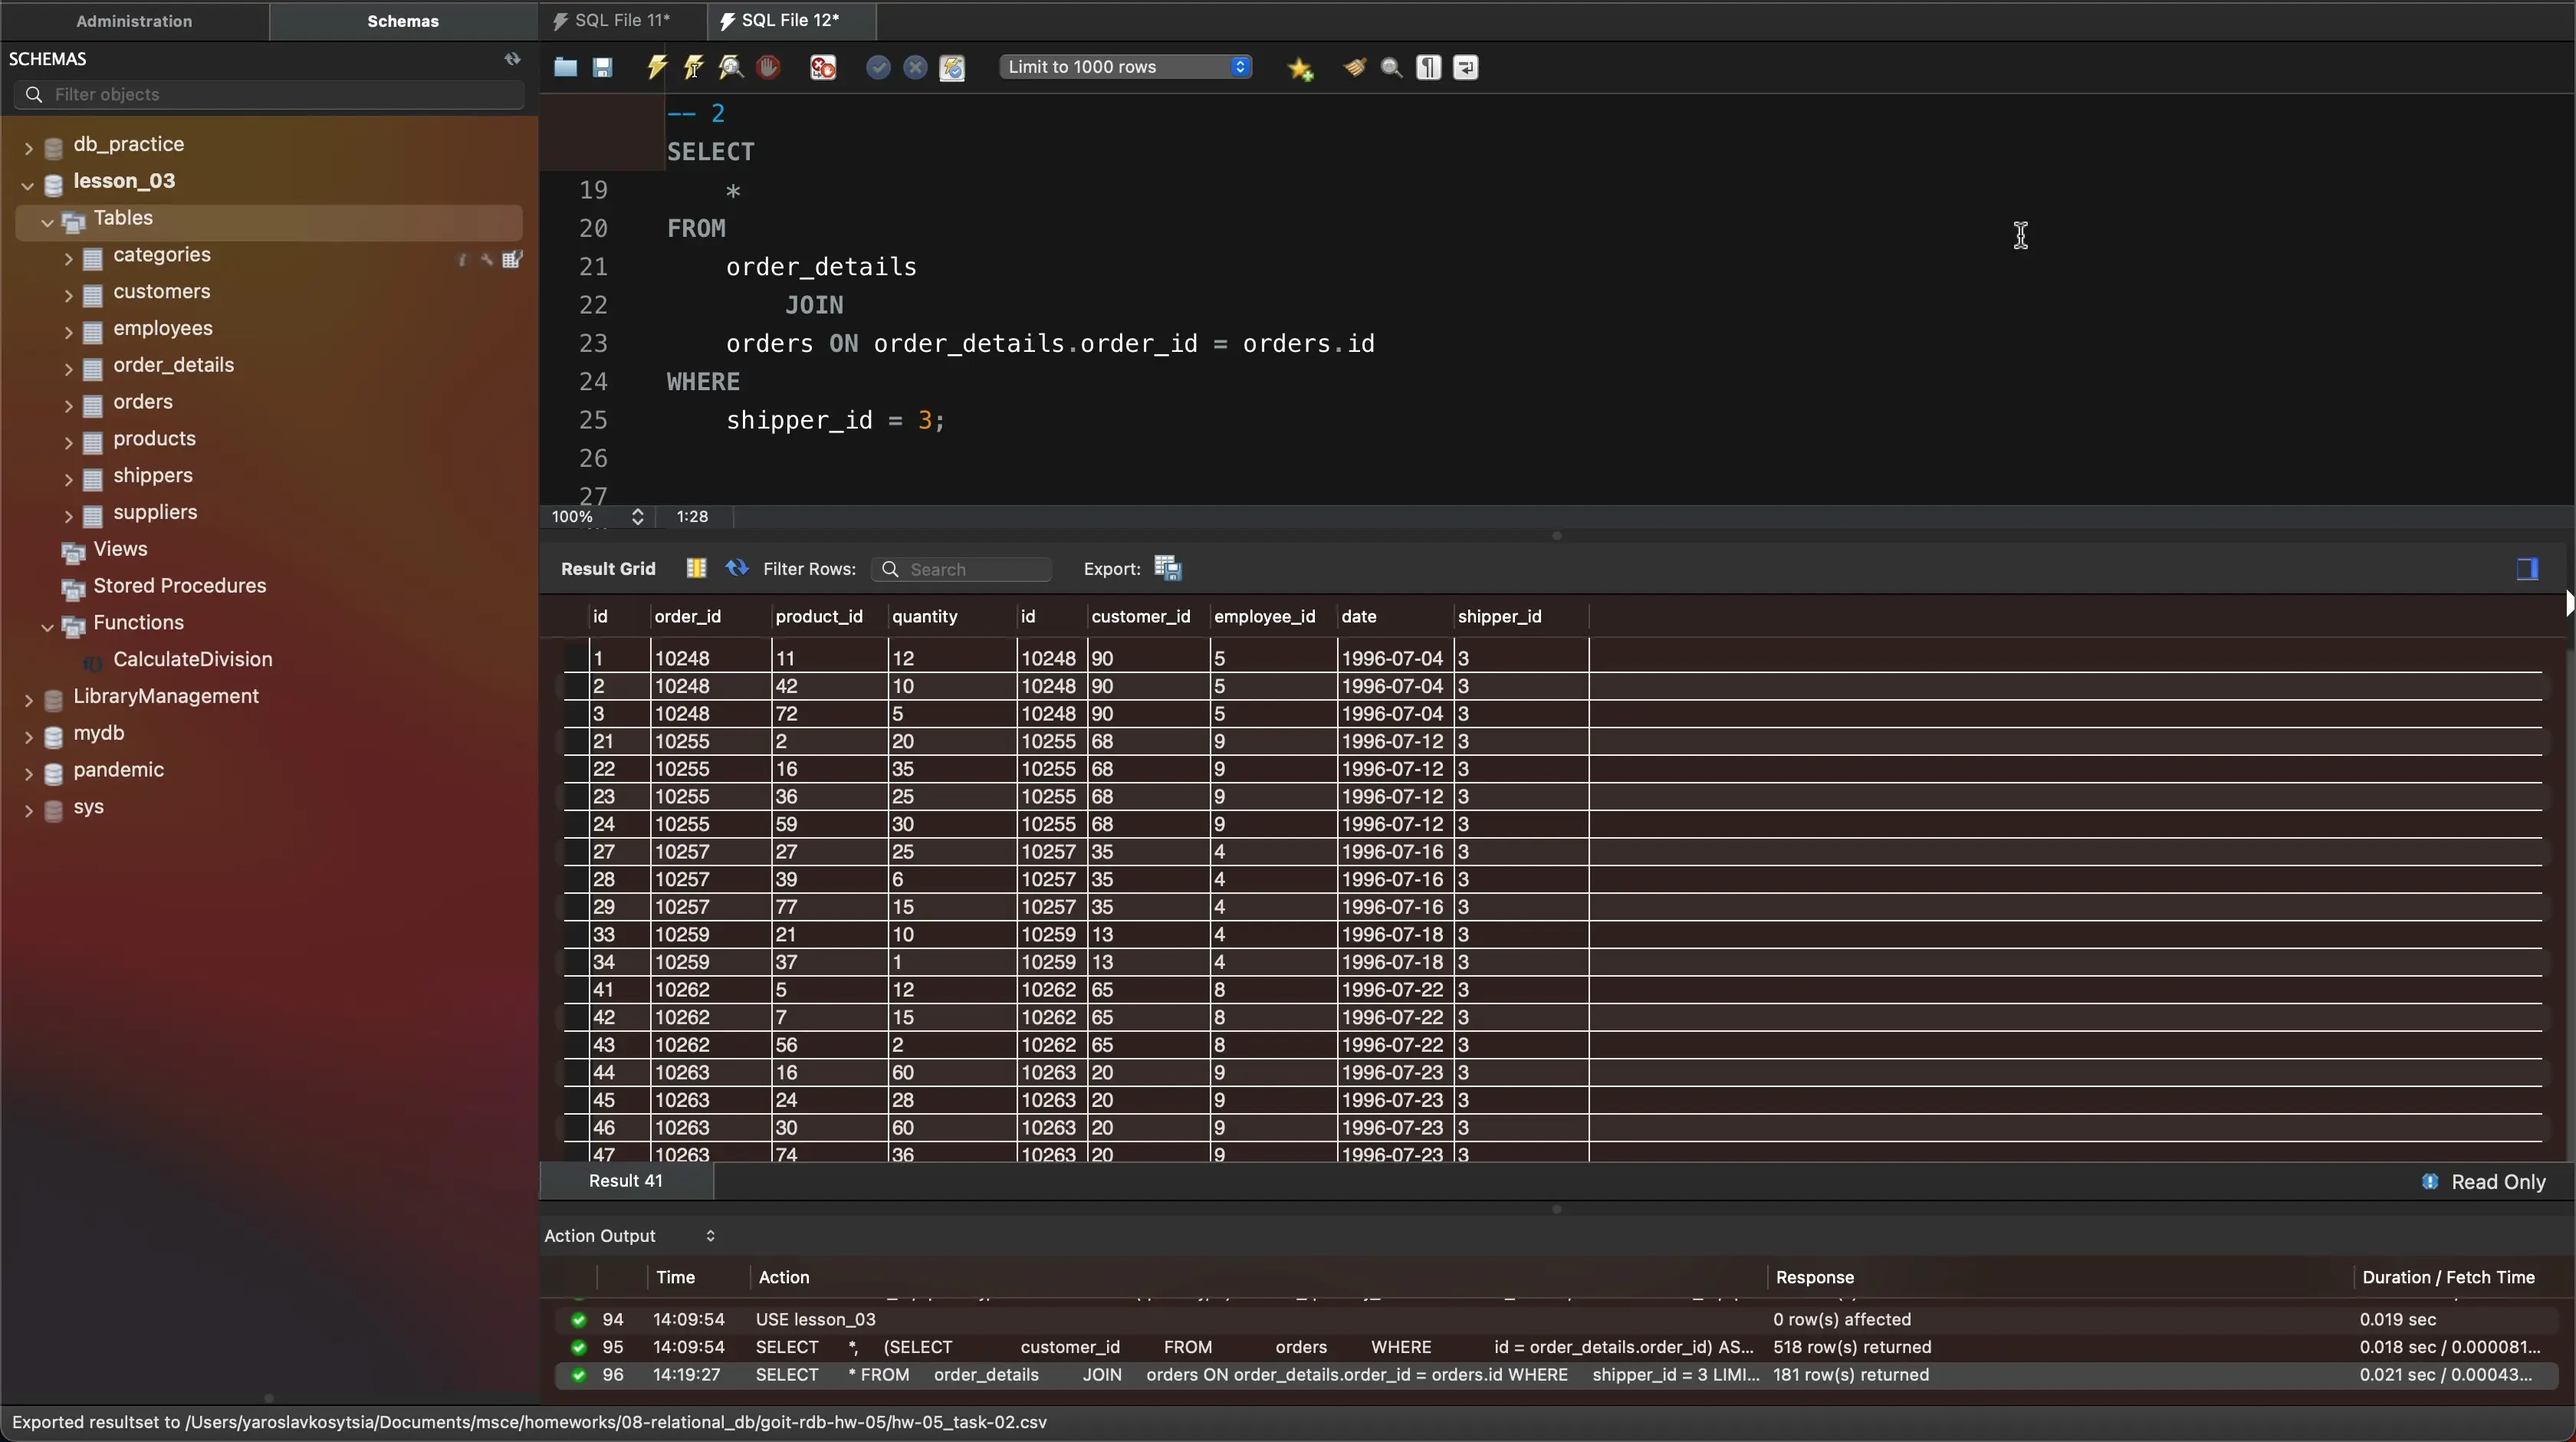
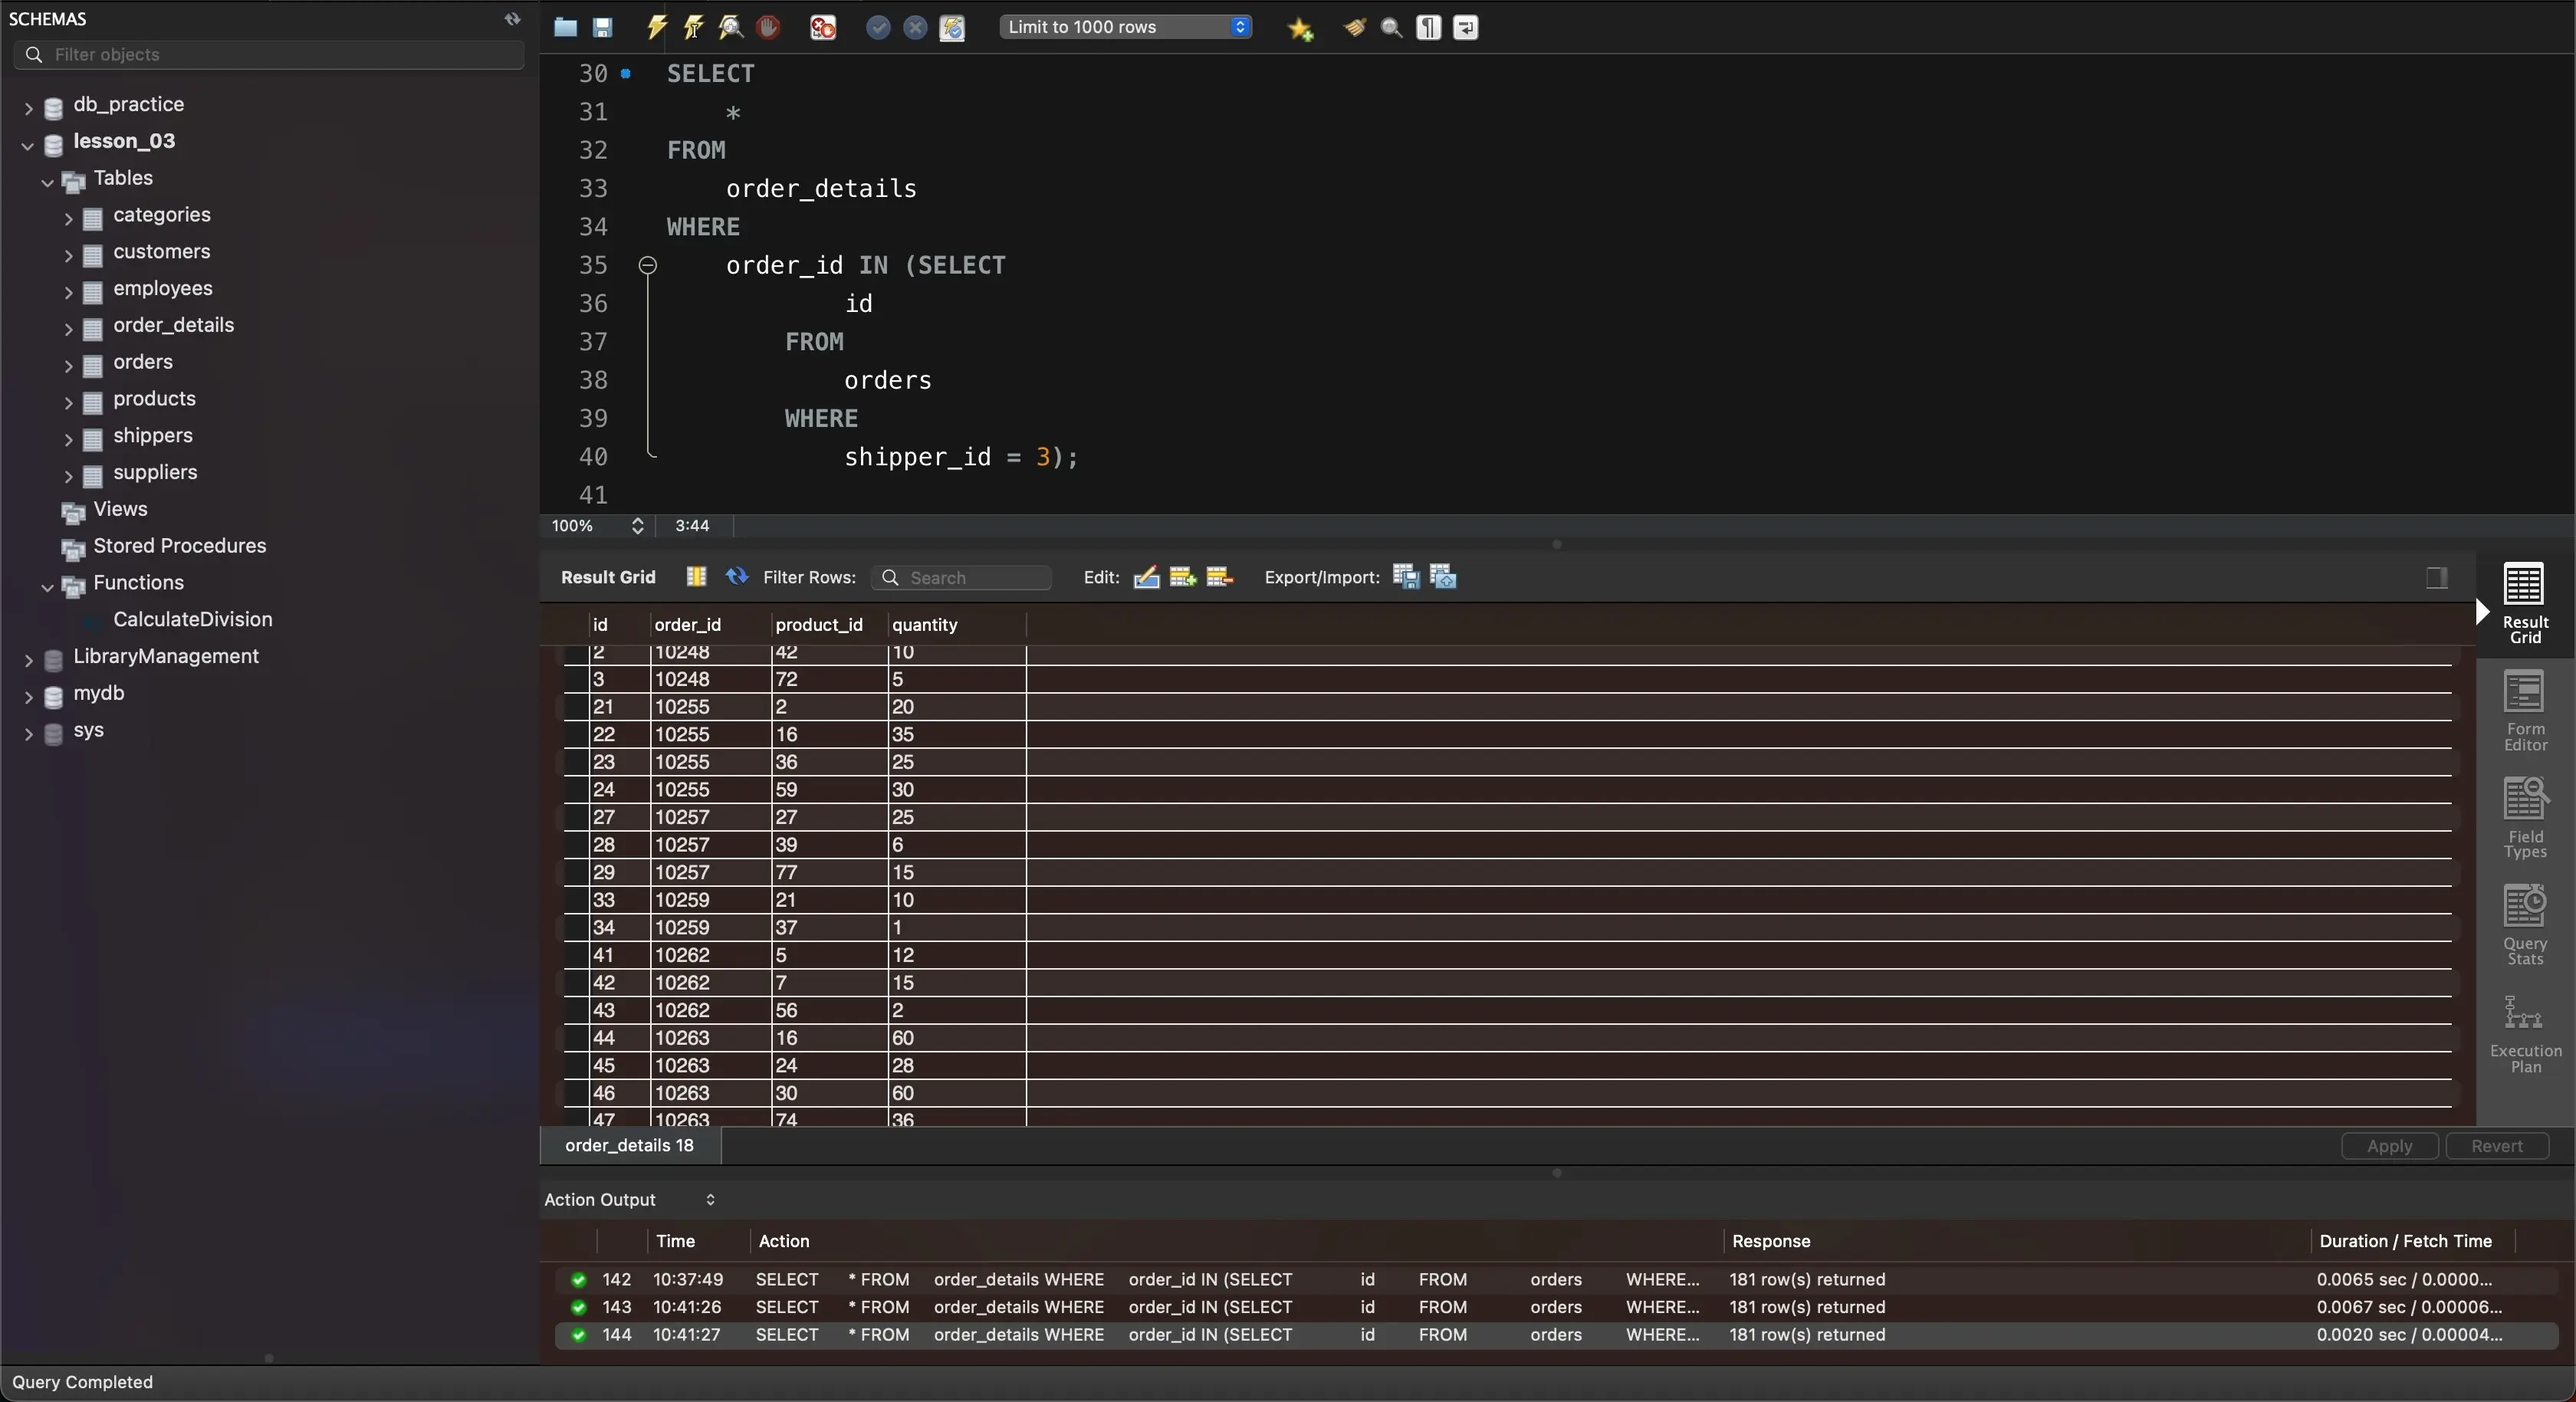
GITBOOK-18: fix task 2

diff --git a/homework-05/tasks.md b/homework-05/tasks.md
@@ -34,15 +34,18 @@ SELECT
     *
 FROM
     order_details
-        JOIN
-    orders ON order_details.order_id = orders.id
 WHERE
-    shipper_id = 3;
+    order_id IN (SELECT 
+            id
+        FROM
+            orders
+        WHERE
+            shipper_id = 3);
 ```
 
 <figure><img src="../.gitbook/assets/hw-05_task_02.webp" alt="" width="375"><figcaption></figcaption></figure>
 
-{% embed url="https://docs.google.com/spreadsheets/d/1oChrAWyoZKgpa_Z45izWtZsULxqfx34y94UC6LBK0ds/edit?usp=sharing" %}
+{% embed url="https://docs.google.com/spreadsheets/d/166-uR73_Uy_wYqGBYM9SCJv9K7eBG8o37qmOanvwXyw/edit?usp=sharing" %}
 task-02
 {% endembed %}
 
